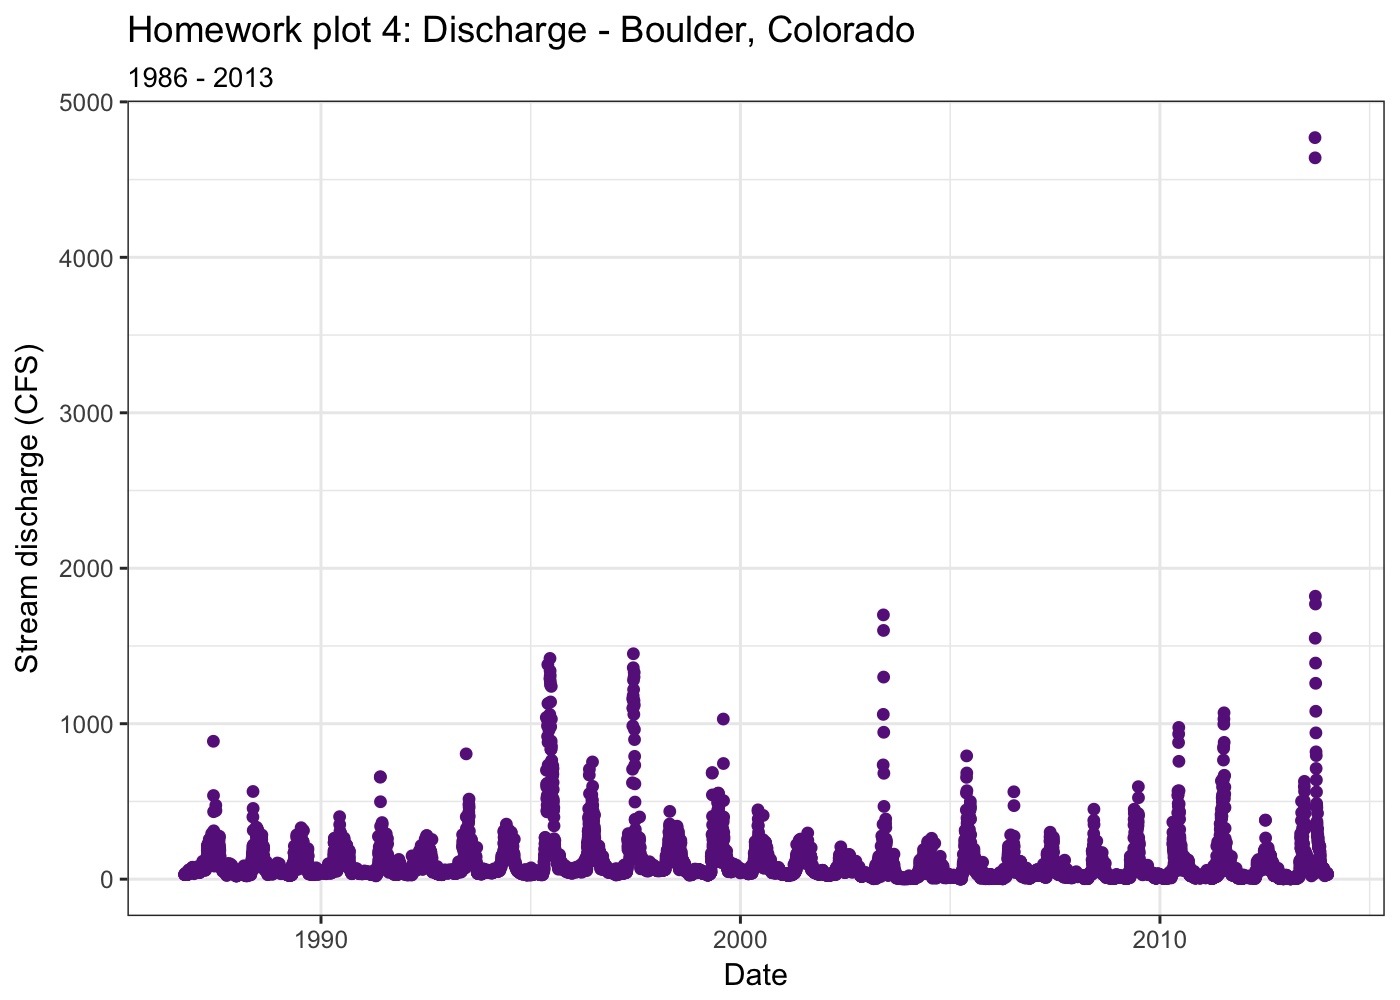
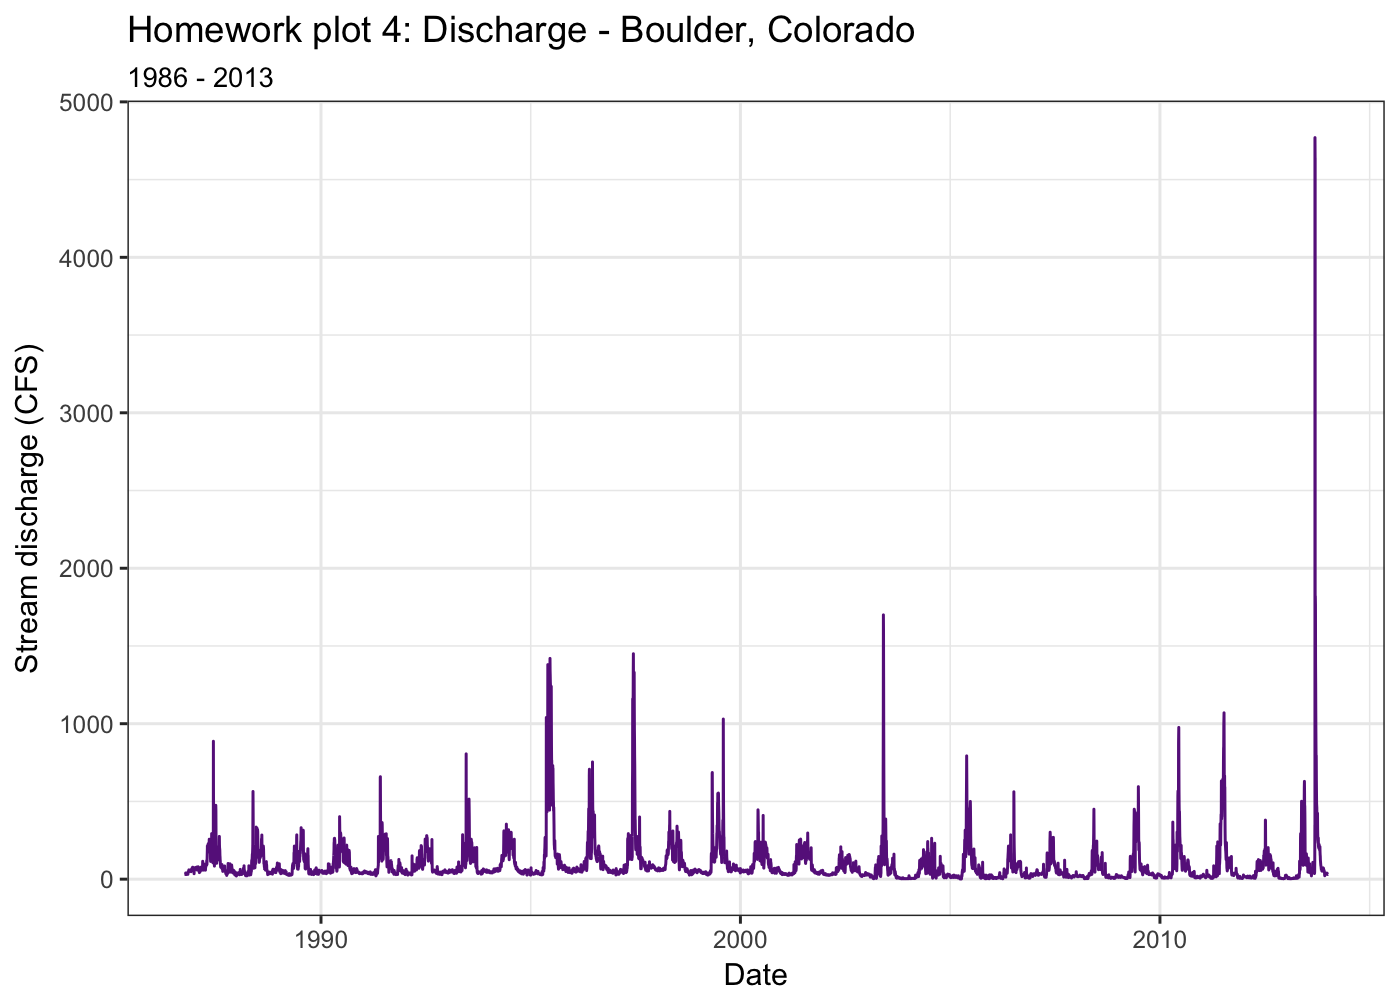
hydrographs as line plots

Changed region(s): [[0.1229, 0.589, 0.9521, 0.899], [0.9214, 0.124, 0.9521, 0.186]]

diff --git a/_posts/courses/earth-analytics/00-course-overview/sessions/2017-01-01-week-04.md b/_posts/courses/earth-analytics/00-course-overview/sessions/2017-01-01-week-04.md
@@ -108,31 +108,27 @@ If you do, please `ZIP` the `html` file up with your `.Rmd` file.
 
 |  Full Credit | Partial Credit ~B | Partial Credit ~C | Partial Credit ~D | No Credit|
 |---|---|---|---|---|
-| PDF and RMD submitted |  | Only one of the 2 files are submitted  | | No files submitted |
+| .html and RMD submitted |  | Only one of the 2 files are submitted  | | No files submitted |
 | Code is written using "clean" code practices following the Hadley Wickham style guide| Spaces are placed after all # comment tags, variable names do not use periods, or function names. | Clean coding is used in some of the code but spaces or variable names are incorrect 2-4 times| | Clean coding is not implemented consistently throughout the report. |
 | YAML contains a title, author and date | Author, title and date are in YAML | One element is missing from the YAML | | 2 or more elements are missing from the YAML |
 | Code chunk contains code and runs  | All code runs in the document  | There are 1-2 errors in the code in the document that make it not run | | The are more than 3 code errors in the document |
 | All required R packages are listed at the top of the document in a code chunk.  | | Some packages are listed at the top of the document and some are lower down. | | |
 
-### Part 1 - Classified DTM difference raster plot: 35%
+
+## Knitr pdf output: 10%
 
 |  Full Credit | Partial Credit ~B | Partial Credit ~C | Partial Credit ~D | No Credit|
 |---|---|---|---|---|
-| DTM Difference plot is customized with appropriate titles, axis labels and colors.  | Plot is correct but is missing a title. | Plot is missing appropriate labels. | | Plot is missing|
-| DTM difference data are CROPPED using the crop_extent shapefile ||| | Data are not cropped to the crop_extent shapefile|
-| Difference DTM is classified into discrete values || | | Data are not classified into discrete values |
-| Data Exploration Plot 1: Plot a histogram of the DTM difference raster using the base histogram function (don’t worry about custom breaks)||| | Histogram is missing |
-| Data Exploration Plot 2: Plot a second histogram of the DTM difference raster and customize the breaks to mimic the classes that you may want to use for your final classified raster. ||| | Histogram is missing |
-| The colors and classes selected to plot the final difference raster, selected using the previous histogram s clearly show changes. | || | The colors and classes selected do not show change well / don't show change at all. |
+| Code chunk arguments are used to hide warnings |  |  | | |
+| Code chunk arguments are used to hide code and just show output |  | | |  |
+| .pdf report emphasizes the write up and the code outputs rather than showing each step of the code |  | | |  |
 
-
-### Part 2 - Classified CHM difference raster plot: 35%
+## Report questions: 40%
 
 |  Full Credit | Partial Credit ~B | Partial Credit ~C | Partial Credit ~D | No Credit|
 |---|---|---|---|---|
-| Difference CHM plot is customized with appropriate titles, axis labels and colors. | Plot is correct but is missing a title. | Plot is missing appropriate labels and is not described adequately in the text of the report. | |Plot is missing|
-| Difference CHM data are CROPPED using the crop_extent shapefile||| | Data are not cropped to the crop_extent shapefile|
-| Difference CHM is classified into discrete values || | | Data are not classified into discrete values |
-| Data Exploration Plot 1: Plot a histogram of the difference raster using the base histogram function (don’t worry about custom breaks)||| | Histogram is missing |
-| Data Exploration Plot 2: Plot a second histogram of the difference raster and customize the breaks to mimic the classes that you may want to use for your final classified raster. ||| | Histogram is missing |
-| The colors and classes selected to plot the final difference raster, selected using the previous histogram s clearly show changes. | || | The colors and classes selected do not show change well / don't show change at all. |
+| Student clearly defines Coordinate Reference System (CRS) (1 paragraph is well written and correctly describes what a CRS is.) |  |  | | |
+| Describe what you need to do when you want to plot 2 spatial datasets in 2 different Coordinate Reference System (CRS) (paragraph is well written and correctly describes the key step.) |  |  | | |
+| Student compared the scatter plots of average and max height and determined which relationship is "better" (more comparable)|  |  | | |
+| Student references what they see in the scatter plots and the difference bar plots to make their argument for which relationships (average height vs max height) is better. The argument is based upon data results and what they learned in the readings / class. |  |  | | |
+| 1-2 readings from the homework are referenced in this paragraph.|  |  | | |
